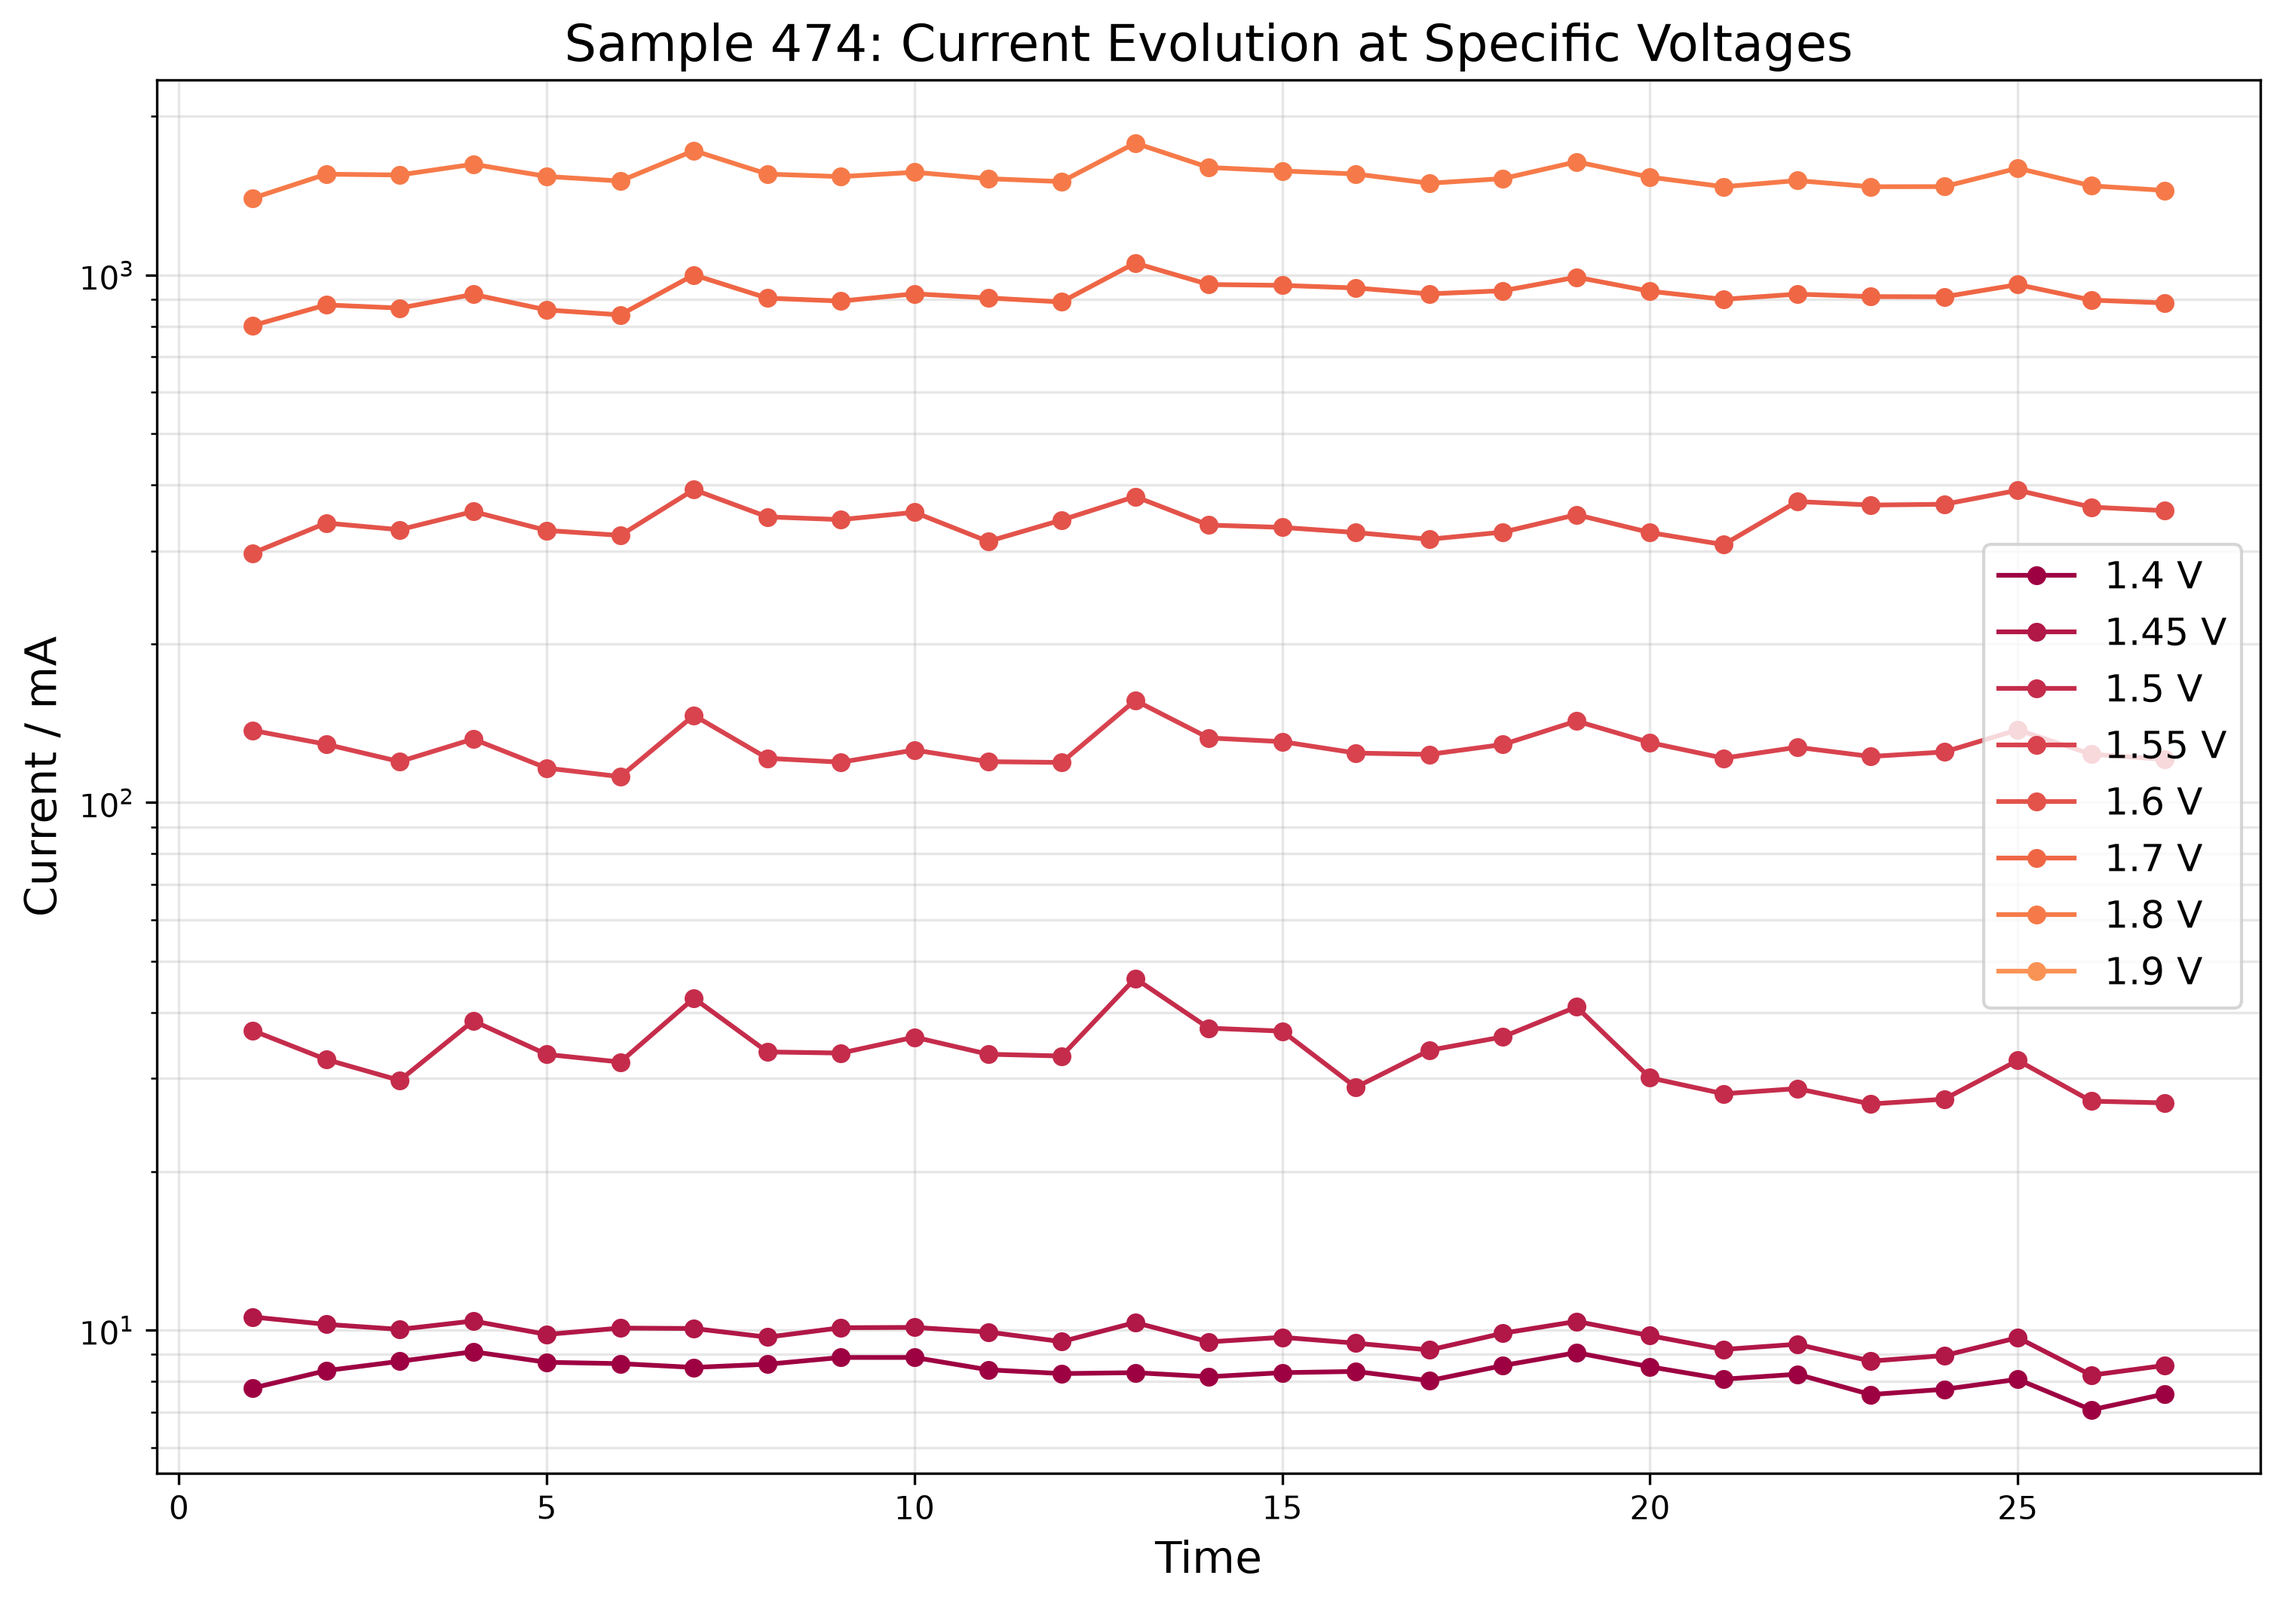
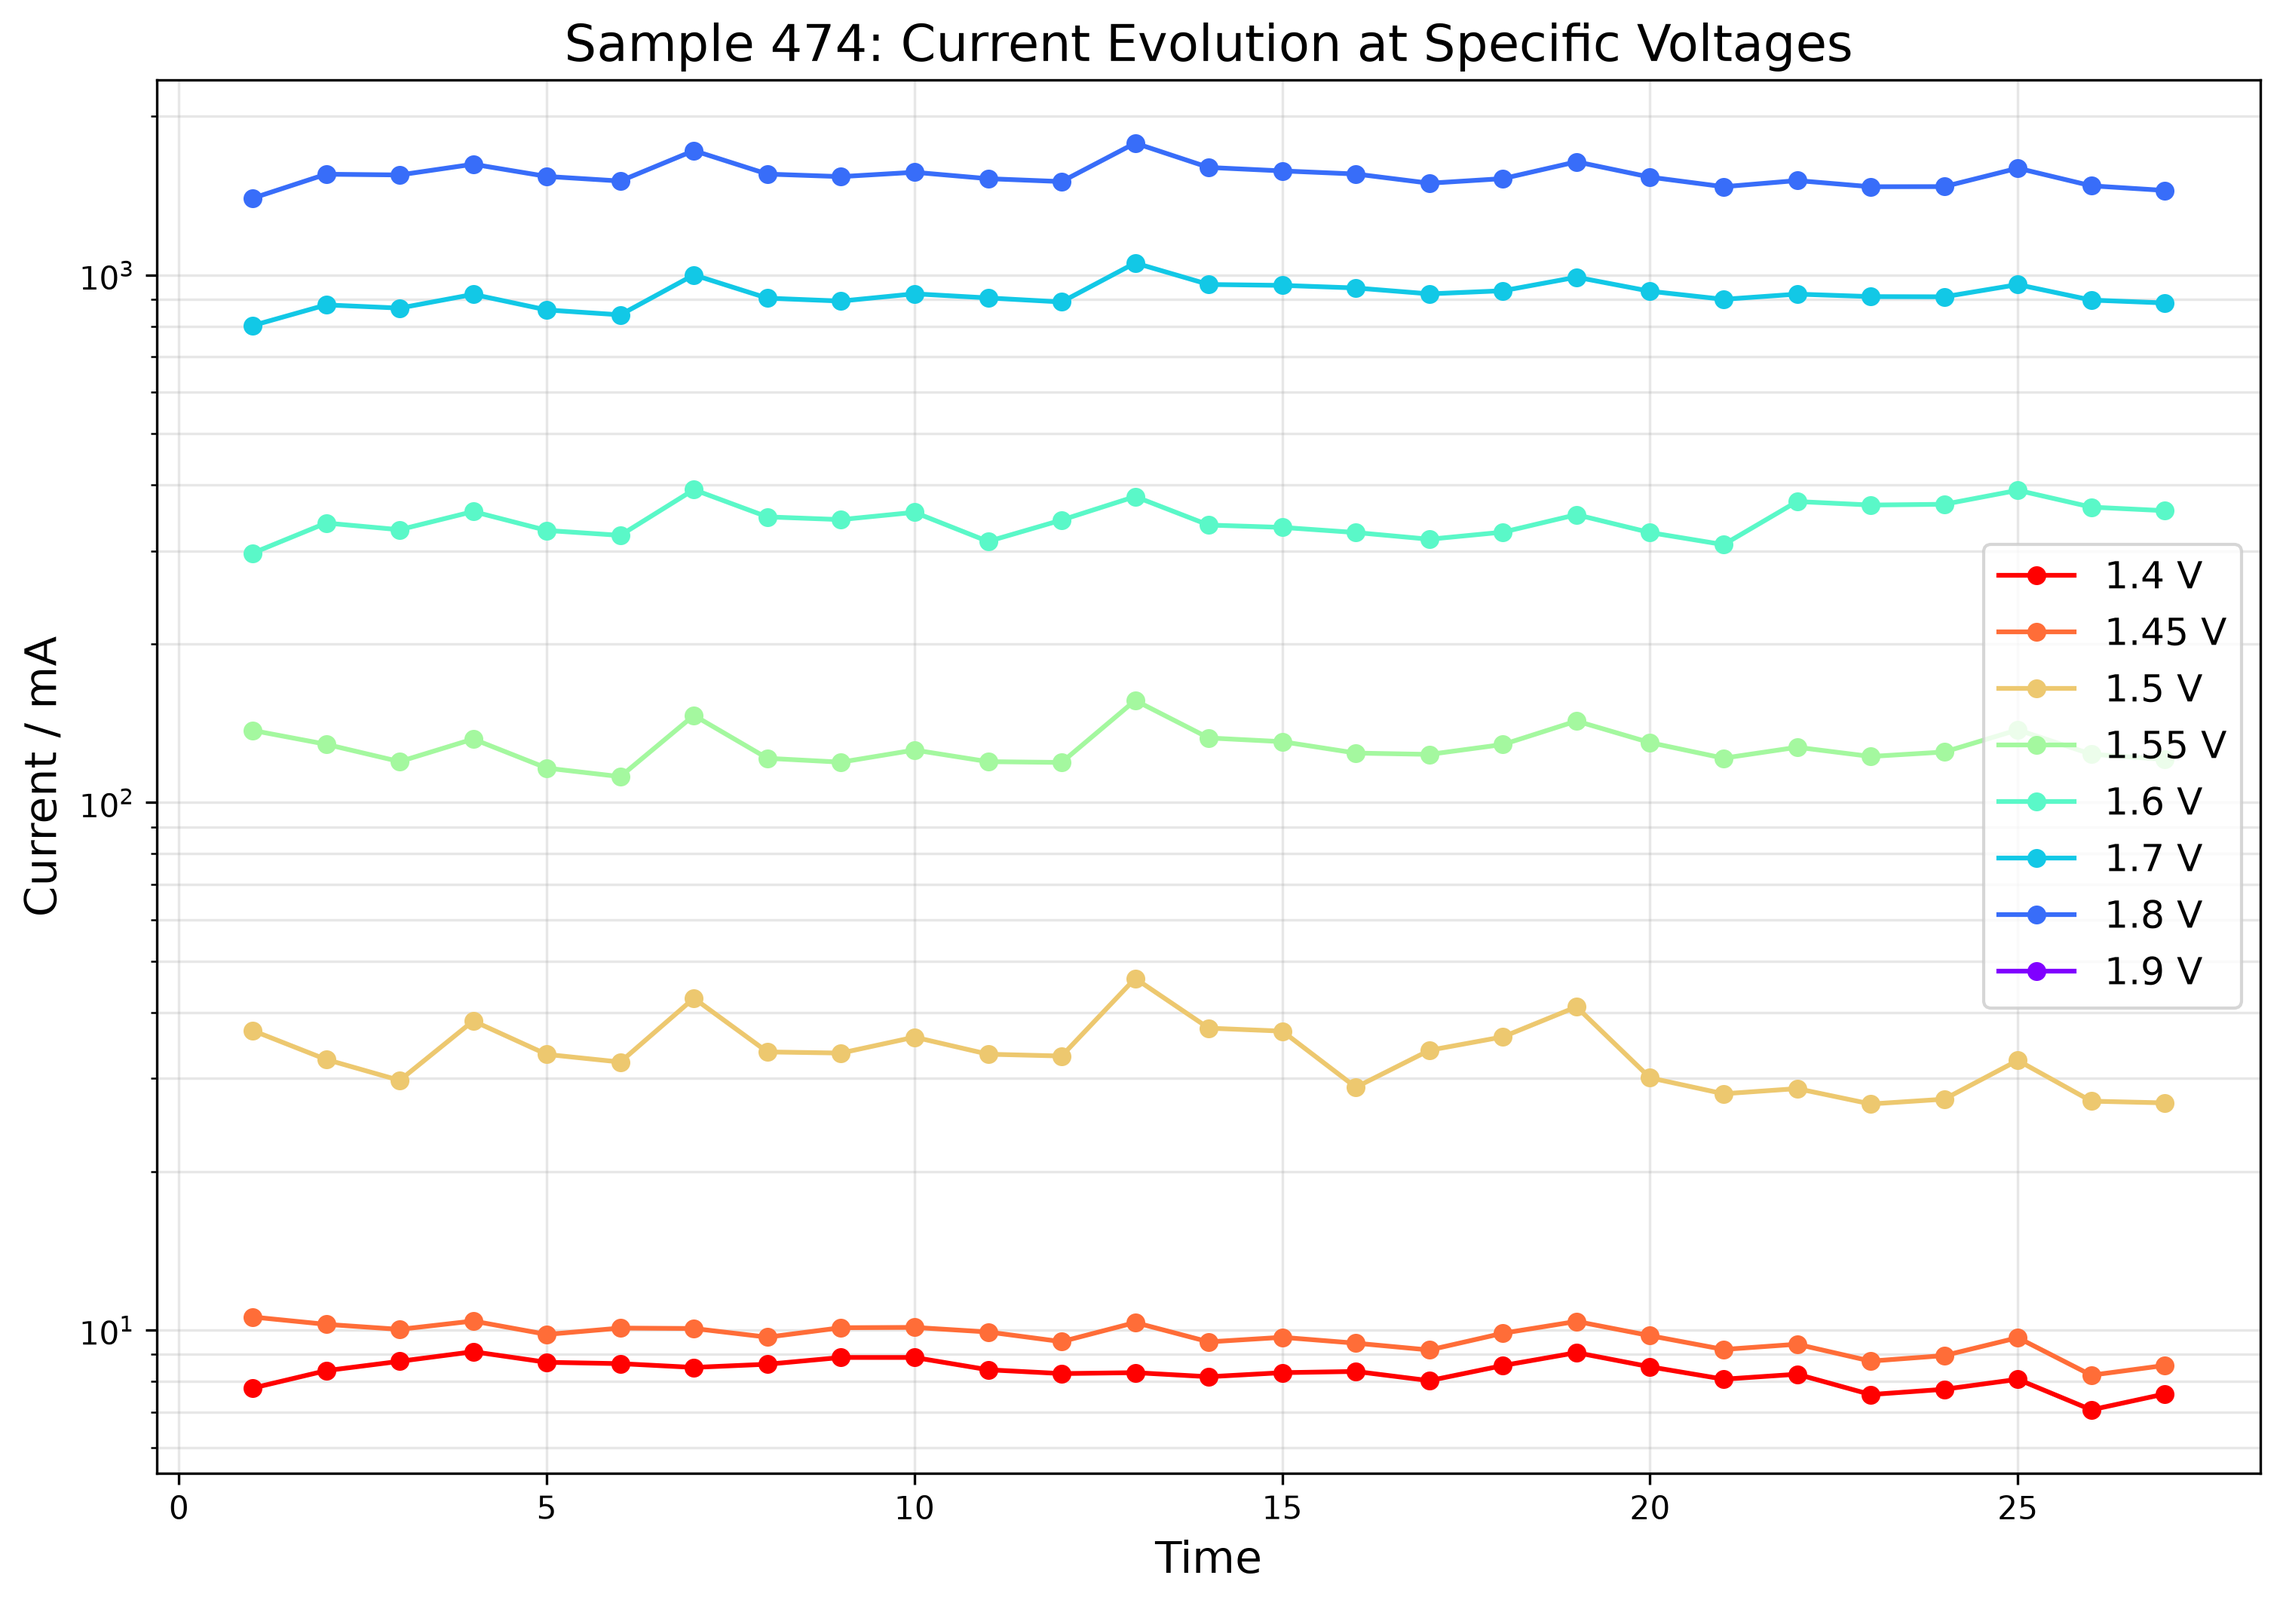
Update polarization graphs: use rainbow colormap from purple to red
- Changed back to rainbow colormap
- Colors now go from purple (start) to red (end) matching number of plotted items
- Dynamic color generation based on actual number of time points/voltages
- Regenerated all graphs for samples 474, 498, 499, 505

diff --git a/AEMs/scripts/generate_polarization_graphs.py b/AEMs/scripts/generate_polarization_graphs.py
@@ -17,9 +17,9 @@ SAMPLES = ['474', '498', '499', '505']
 # Target voltages for interpolation
 TARGET_VOLTAGES = [1.4, 1.45, 1.5, 1.55, 1.6, 1.7, 1.8, 1.9]
 
-# Rainbow color scheme from red to purple (violet)
-# Using Spectral colormap which goes from red through orange, yellow, green, blue to purple
-RAINBOW_COLORS = plt.cm.Spectral(np.linspace(0, 1, 28))  # 28 time points max
+# Rainbow color scheme from purple to red
+# Colors will be generated dynamically based on number of items, from purple (0) to red (1)
+RAINBOW_COLORS = None  # Will be set dynamically per plot
 
 def load_sample_data(sample_id):
     """Load sample data from CSV file."""
@@ -39,8 +39,12 @@ def load_sample_data(sample_id):
     return df
 
 def generate_polarization_curve(df, sample_id, output_dir):
-    """Generate I/mA vs Ecell/V plot split by Time with rainbow colors."""
+    """Generate I/mA vs Ecell/V plot split by Time with rainbow colors from purple to red."""
     times = sorted(df['Time'].unique())
+    
+    # Generate rainbow colors from purple to red based on number of time points
+    n_colors = len(times)
+    colors = plt.cm.rainbow(np.linspace(1, 0, n_colors))  # 1=purple, 0=red
     
     fig, ax = plt.subplots(figsize=(12, 8))
     
@@ -48,10 +52,9 @@ def generate_polarization_curve(df, sample_id, output_dir):
         time_data = df[df['Time'] == t]
         time_data = time_data.sort_values('Ecell_V')
         
-        color_idx = i % len(RAINBOW_COLORS)
         ax.plot(time_data['Ecell_V'], time_data['I_mA'], 
                 marker='o', markersize=4, linestyle='-', 
-                color=RAINBOW_COLORS[color_idx], 
+                color=colors[i], 
                 label=f'Time {t}')
     
     ax.set_xlabel('Ecell / V', fontsize=14)
@@ -97,7 +100,7 @@ def interpolate_current_at_voltages(df, target_voltages):
     return pd.DataFrame(results)
 
 def generate_current_evolution_graph(df, sample_id, output_dir):
-    """Generate current evolution at specific voltages as function of Time."""
+    """Generate current evolution at specific voltages as function of Time with rainbow colors from purple to red."""
     # Interpolate currents at target voltages
     interp_df = interpolate_current_at_voltages(df, TARGET_VOLTAGES)
     
@@ -108,15 +111,18 @@ def generate_current_evolution_graph(df, sample_id, output_dir):
     # Pivot for plotting
     pivot_df = interp_df.pivot(index='Time', columns='Ecell_V', values='I_mA')
     
+    # Generate rainbow colors from purple to red based on number of voltages
+    n_voltages = len(TARGET_VOLTAGES)
+    colors = plt.cm.rainbow(np.linspace(1, 0, n_voltages))  # 1=purple, 0=red
+    
     fig, ax = plt.subplots(figsize=(12, 8))
     
     for i, v in enumerate(TARGET_VOLTAGES):
         if v in pivot_df.columns:
             voltage_data = pivot_df[v].dropna()
-            color_idx = i % len(RAINBOW_COLORS)
             ax.plot(voltage_data.index, voltage_data.values, 
                     marker='o', markersize=5, linestyle='-',
-                    color=RAINBOW_COLORS[color_idx],
+                    color=colors[i],
                     label=f'{v} V')
     
     ax.set_xlabel('Time', fontsize=14)
